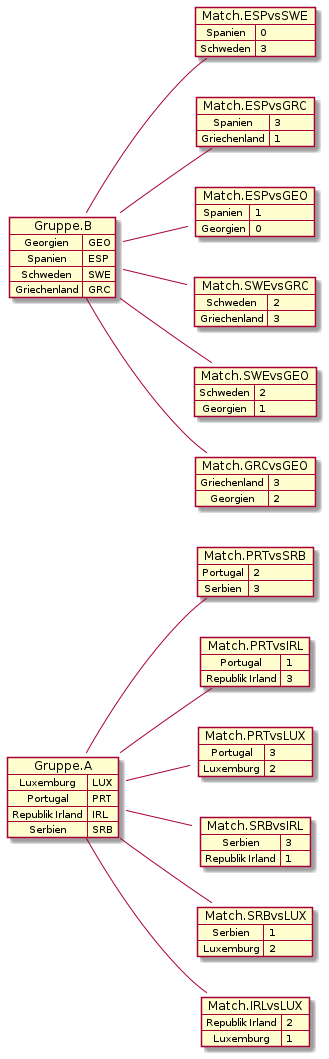
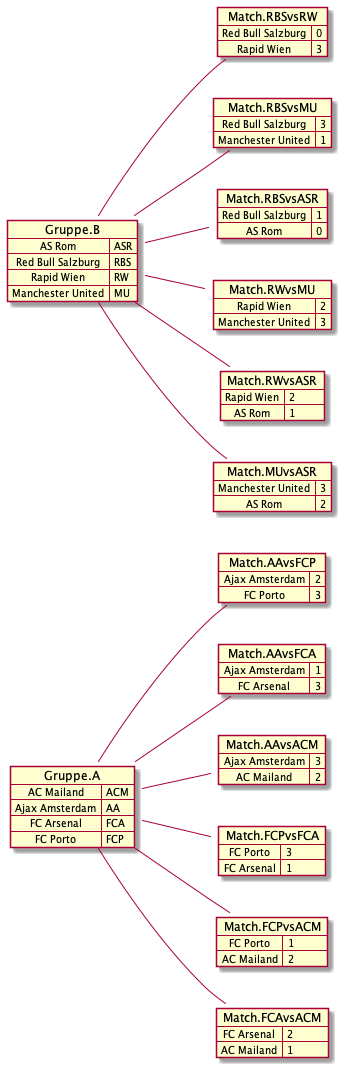
random Teams

diff --git a/src/test/java/at/htl/GruppenPhasenTest.java b/src/test/java/at/htl/GruppenPhasenTest.java
@@ -1,11 +1,13 @@
 package at.htl;
 
+import at.htl.controller.TeamRepository;
 import at.htl.entity.*;
 import at.htl.filewriter.FilewriterGP;
 import io.quarkus.test.junit.QuarkusTest;
 import net.sourceforge.plantuml.SourceStringReader;
 import org.junit.jupiter.api.Test;
 
+import javax.inject.Inject;
 import java.io.ByteArrayOutputStream;
 import java.util.ArrayList;
 import java.util.Comparator;
@@ -14,7 +16,11 @@ import java.util.Random;
 
 import static org.assertj.core.api.Assertions.assertThat;
 
+@QuarkusTest
 public class GruppenPhasenTest {
+
+    @Inject
+    TeamRepository teamRepository;
 
     Random random = new Random();
     @Test
@@ -24,12 +30,27 @@ public class GruppenPhasenTest {
         List<Team> allTeams = new ArrayList<Team>();
         GroupGP winningGroup = new GroupGP();
         //region Gruppe 1
+        List<Team> teams =  teamRepository.findAll().stream().toList();
+        int teamListCountFromDb = (int) teamRepository.count();
+
+        List<Integer> randomNumbers = null;
+
+        for (int i = 0; i < 8; i++) {
+            randomNumbers = new ArrayList<Integer>();
+            while (randomNumbers.size() < 8) {
+                int randomNumber = random.nextInt(teamListCountFromDb);
+                if (!randomNumbers.contains(randomNumber)) {
+                    randomNumbers.add(randomNumber);
+                }
+            }
+        }
+
 
         //region Teams 1
-        Team team1 = new Team("Portugal", "PRT");
-        Team team2 = new Team("Serbien","SRB");
-        Team team3 = new Team("Republik Irland","IRL");
-        Team team4 = new Team("Luxemburg","LUX");
+        Team team1 = teams.get(randomNumbers.get(0));
+        Team team2 = teams.get(randomNumbers.get(1));
+        Team team3 = teams.get(randomNumbers.get(2));
+        Team team4 = teams.get(randomNumbers.get(3));
         //endregion
 
         //region Group 1
@@ -94,10 +115,13 @@ public class GruppenPhasenTest {
         //region Gruppe 2
 
         //region Teams 2
-        Team team5 = new Team("Spanien","ESP");
-        Team team6 = new Team("Schweden","SWE");
-        Team team7 = new Team("Griechenland","GRC");
-        Team team8 = new Team("Georgien","GEO");
+
+        //region Teams 1
+        Team team5 = teams.get(randomNumbers.get(4));
+        Team team6 = teams.get(randomNumbers.get(5));
+        Team team7 = teams.get(randomNumbers.get(6));
+        Team team8 = teams.get(randomNumbers.get(7));
+        //endregion
         //endregion
 
         //region Group 1
